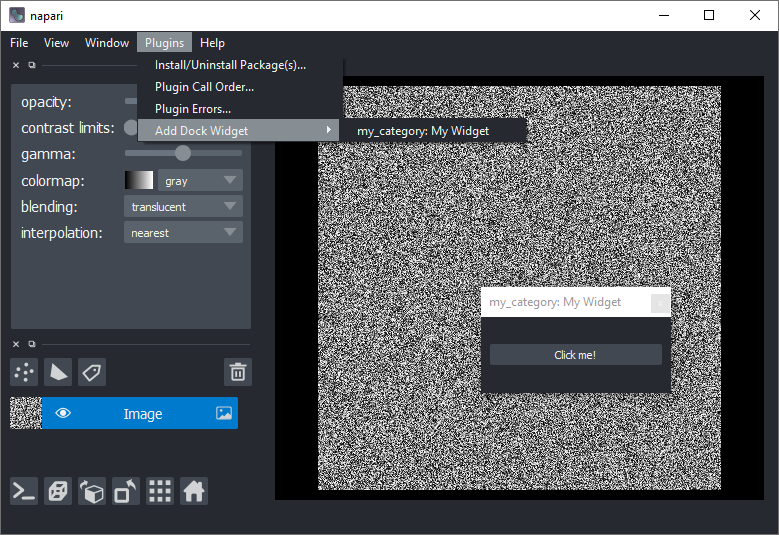
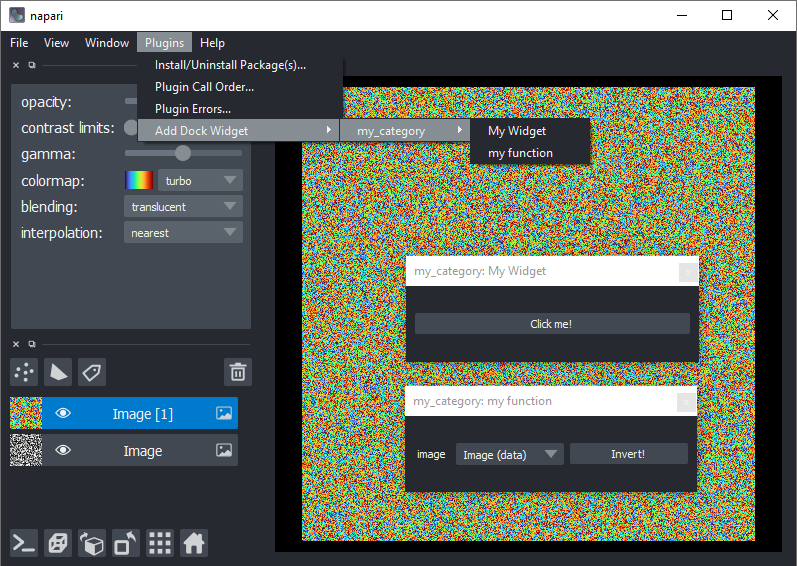
added buttons and some processing

diff --git a/napari_minimal_plugin/_my_function.py b/napari_minimal_plugin/_my_function.py
@@ -1,2 +1,9 @@
-def my_function(x):
-    print("Hello world! x is ", x)
+from napari.types import ImageData
+
+def my_function(image : ImageData) -> 'napari.types.LayerDataTuple':
+
+    # process the image
+    result = -image
+
+    # return it + some layer properties
+    return result, {'colormap':'turbo'}

diff --git a/napari_minimal_plugin/_napari_hook_implementations.py b/napari_minimal_plugin/_napari_hook_implementations.py
@@ -11,4 +11,4 @@ def napari_experimental_provide_dock_widget():
 
 @napari_hook_implementation
 def napari_experimental_provide_function_widget():
-    return my_function
+    return my_function, {'call_button':'Invert!'}
